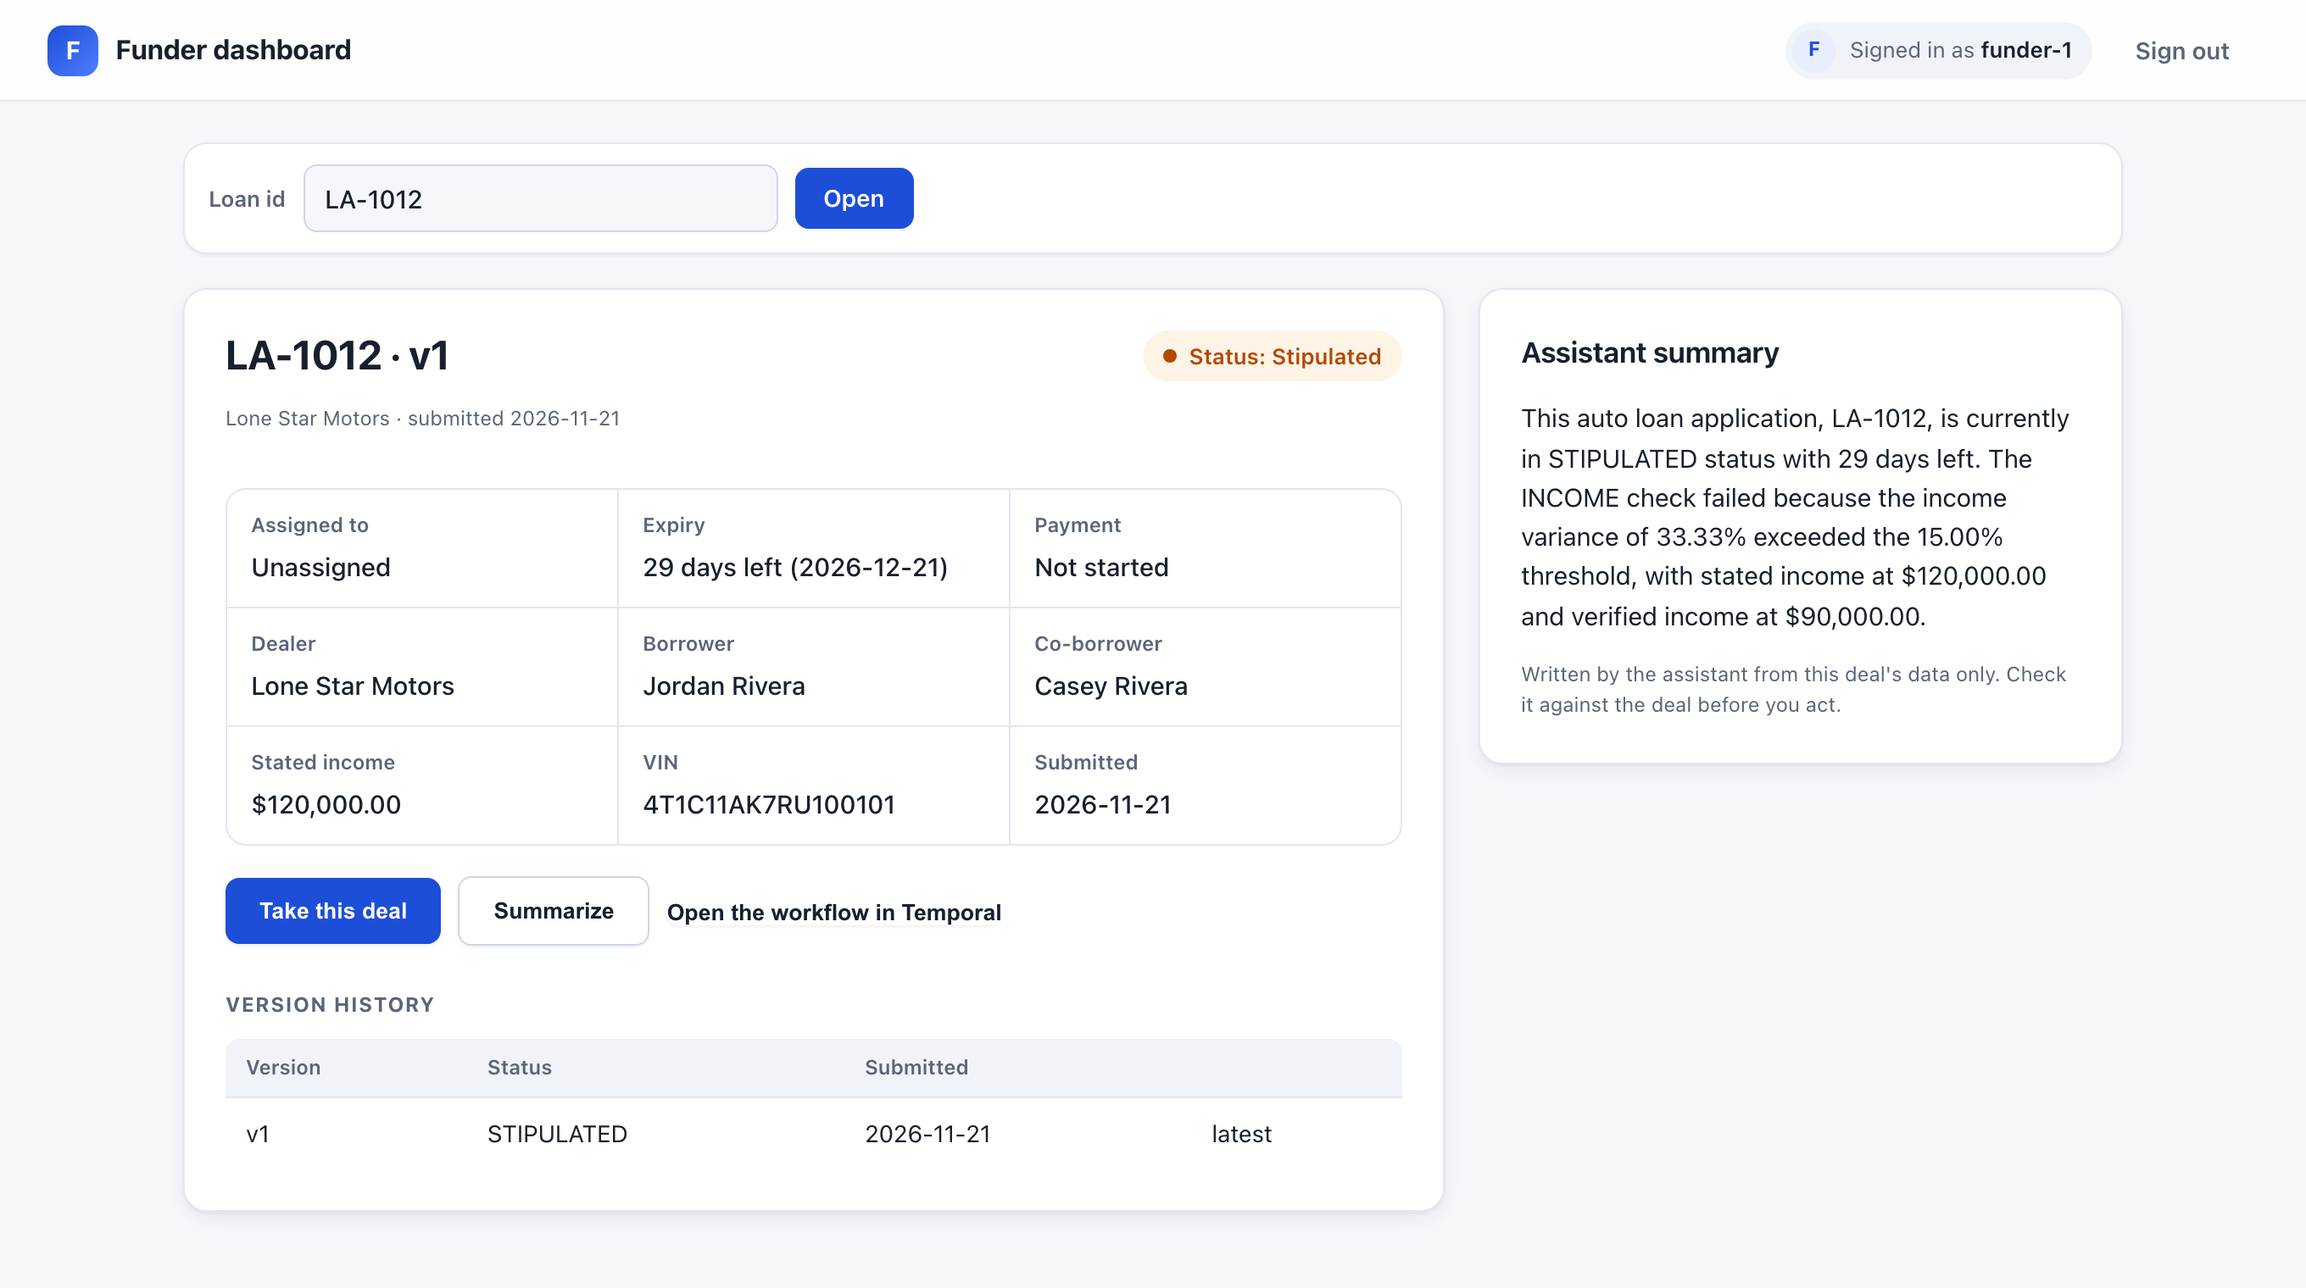
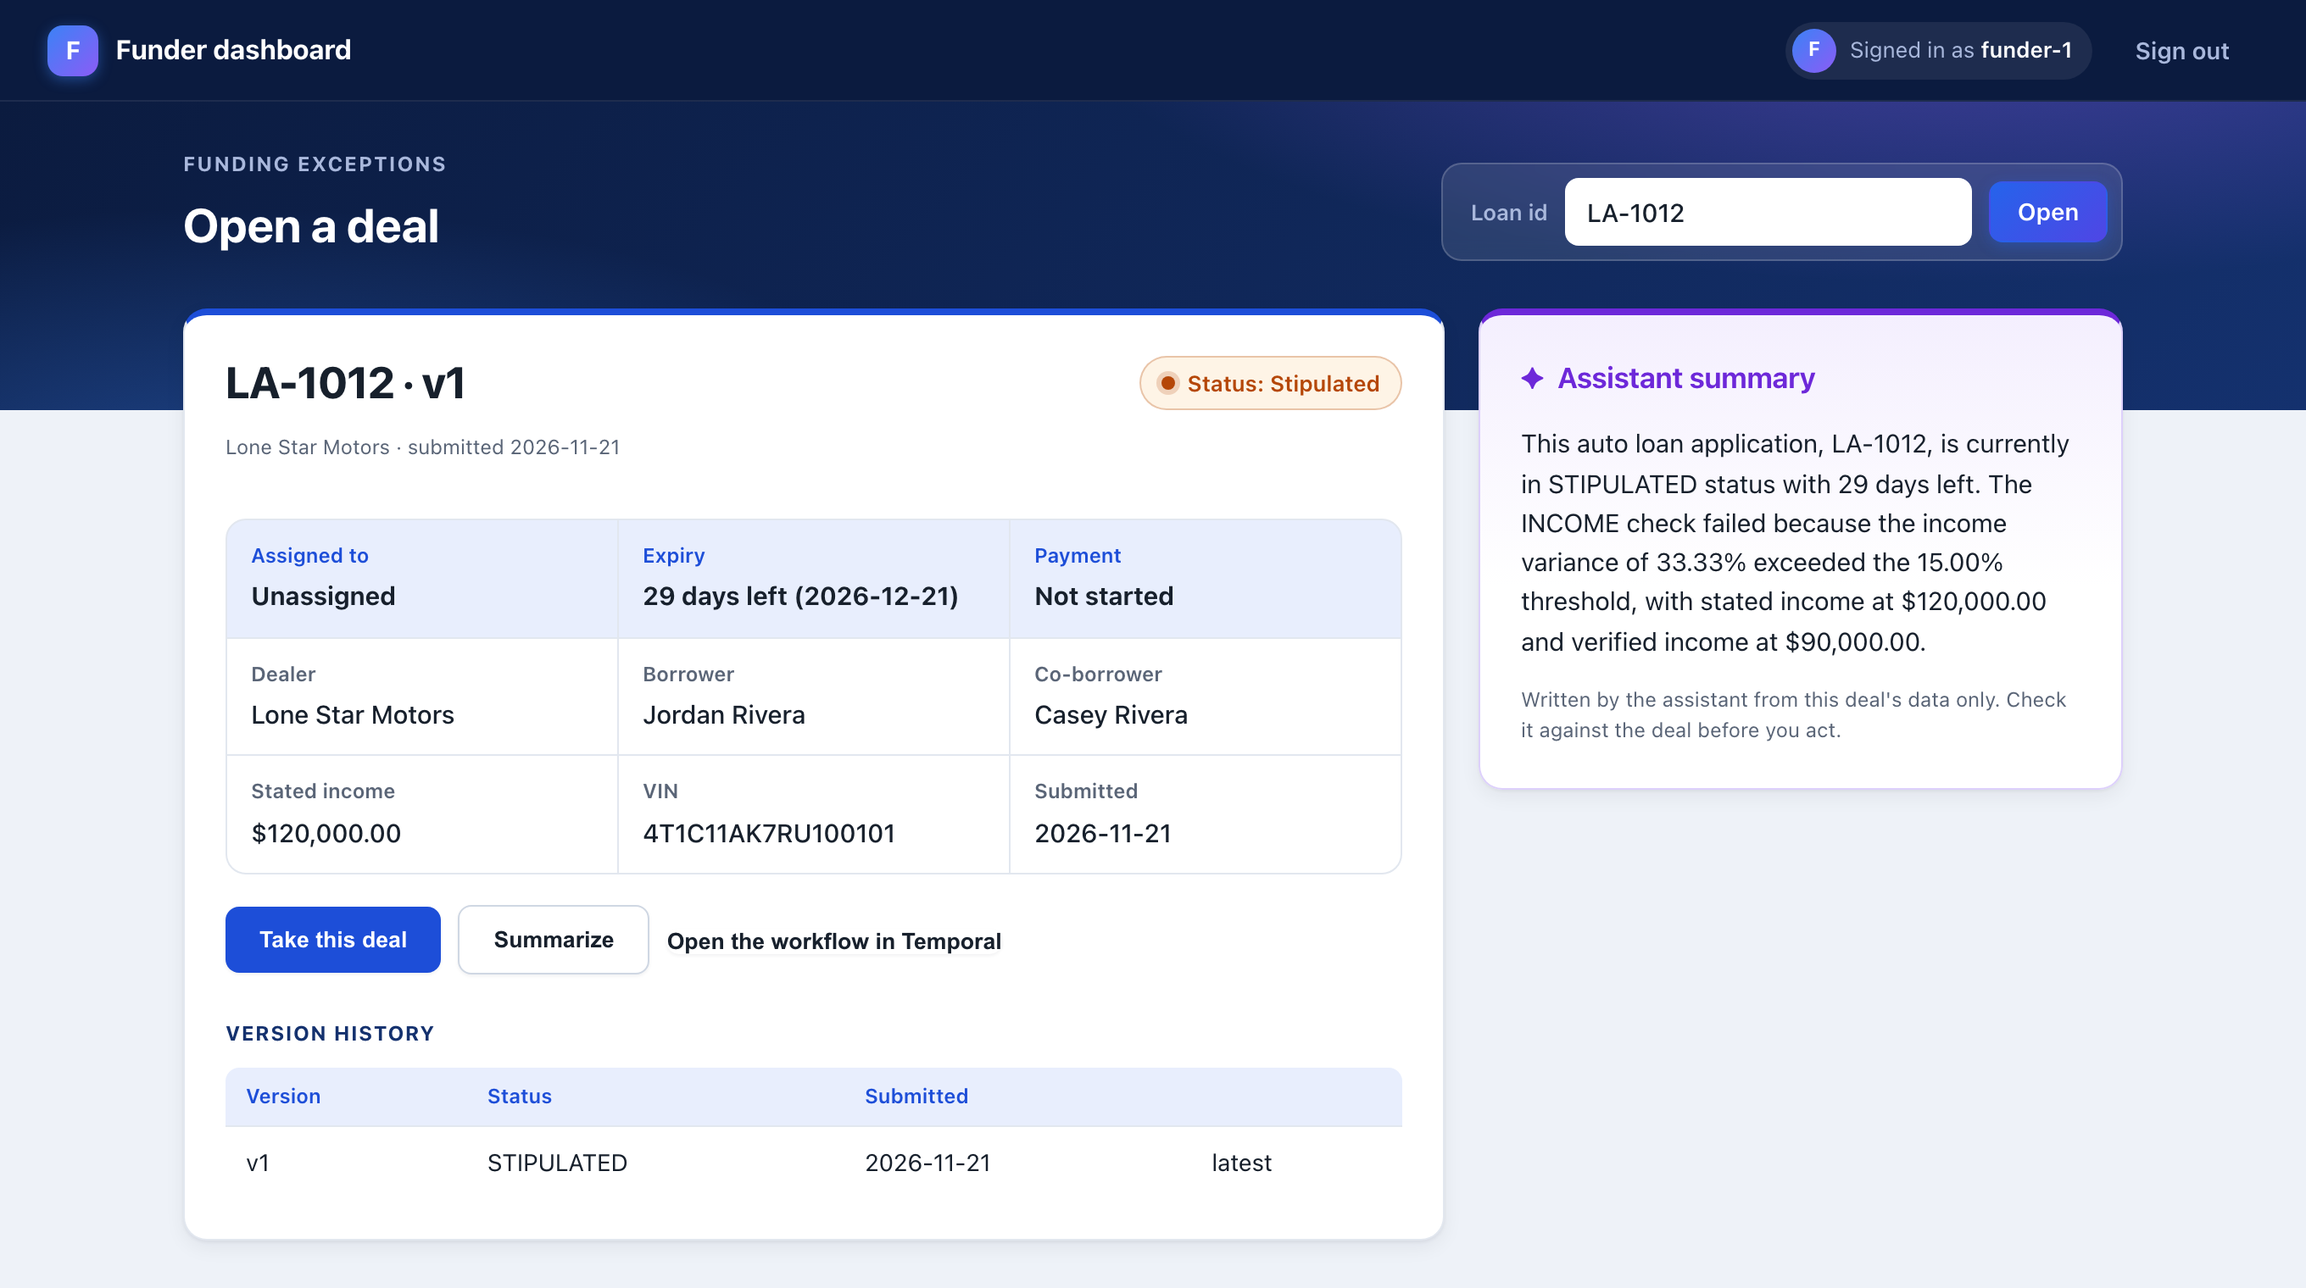
Spec 002 D1c: a richer look (navy hero, accents, an indigo assistant)
At the owner's request ("too light"):
- A navy top bar and a hero band holding the loan search; the cards lift over it.
- A blue edge on the deal card, the first three facts (assignee, expiry, payment) in
  tinted tiles, a tinted table header, gradient primary buttons, ringed status dots.
- The assistant's panel in its own indigo colour with a ✦, so what the AI wrote stands out.
- The sign-in page on the navy gradient. Dark mode: section titles get their own colour.
- D-18 and ui_summary describe it; the screenshot is refreshed. 13 Playwright pass.

diff --git a/dashboard/web/src/index.css b/dashboard/web/src/index.css
@@ -4,9 +4,17 @@
 
 :root {
   /* tokens: light */
-  --bg: #f5f7fb;
+  --bg: #eef2f8;
   --surface: #ffffff;
   --surface-2: #f0f3f8;
+  --navy: #0b1b3f;
+  --navy-2: #14316e;
+  --on-navy: #ffffff;
+  --on-navy-muted: #a9b8dc;
+  --ink-strong: #14316e;   /* section titles */
+  --ai: #6d28d9;
+  --ai-soft: #f4effe;
+  --ai-border: #ddd0fb;
   --border: #e2e7ef;
   --border-strong: #cfd7e3;
   --text: #17202c;
@@ -84,8 +92,14 @@
 
 @media (prefers-color-scheme: dark) {
   :root {
-    --bg: #0d1117;
+    --bg: #0b0f17;
     --surface: #151b24;
+    --navy: #0a1330;
+    --navy-2: #142a63;
+    --ai: #a78bfa;
+    --ai-soft: rgba(167, 139, 250, 0.10);
+    --ai-border: rgba(167, 139, 250, 0.30);
+    --ink-strong: #b4c3ff;
     --surface-2: #1b2330;
     --border: #273142;
     --border-strong: #34405a;
@@ -121,8 +135,8 @@ p { margin: 0; }
 }
 .btn:hover { background: var(--surface-2); }
 .btn:focus-visible, input:focus-visible { outline: 3px solid var(--accent-soft); outline-offset: 1px; border-color: var(--accent); }
-.btn-primary { background: var(--accent); border-color: var(--accent); color: #fff; }
-.btn-primary:hover { background: var(--accent-hover); border-color: var(--accent-hover); }
+.btn-primary { background: linear-gradient(135deg, #2563eb, #4f46e5); border-color: transparent; color: #fff; box-shadow: 0 2px 8px rgba(37, 99, 235, 0.35); }
+.btn-primary:hover { background: linear-gradient(135deg, #1d4ed8, #4338ca); }
 .btn-ghost { background: transparent; box-shadow: none; border-color: transparent; color: var(--text-muted); }
 .btn-ghost:hover { background: var(--surface-2); color: var(--text); }
 .btn-block { width: 100%; padding: 12px 16px; }
@@ -132,51 +146,77 @@ p { margin: 0; }
 .topbar {
   position: sticky; top: 0; z-index: 10; height: 60px; padding: 0 28px;
   display: flex; align-items: center; justify-content: space-between;
-  background: color-mix(in srgb, var(--surface) 88%, transparent); backdrop-filter: blur(8px);
-  border-bottom: 1px solid var(--border);
+  background: var(--navy); color: var(--on-navy);
+  border-bottom: 1px solid rgba(255, 255, 255, 0.08);
 }
+.topbar .brand { color: var(--on-navy); }
+.topbar .btn-ghost { color: var(--on-navy-muted); }
+.topbar .btn-ghost:hover { background: rgba(255, 255, 255, 0.08); color: var(--on-navy); }
 .brand { display: inline-flex; align-items: center; gap: 10px; font-weight: 700; color: var(--text); }
 .brand-mark {
   width: 30px; height: 30px; border-radius: 9px; display: grid; place-items: center;
-  background: linear-gradient(135deg, var(--accent), #4f7cff); color: #fff; font-size: 15px;
+  background: linear-gradient(135deg, #3b82f6, #8b5cf6); color: #fff; font-size: 15px;
+  box-shadow: 0 2px 8px rgba(59, 130, 246, 0.45);
 }
 .brand-name { font-size: 16px; letter-spacing: -0.01em; }
 .topbar-user { display: flex; align-items: center; gap: 8px; }
 .user-chip {
   display: inline-flex; align-items: center; gap: 8px; padding: 4px 12px 4px 4px; border-radius: 999px;
-  background: var(--surface-2); color: var(--text-muted); font-size: 13px;
+  background: rgba(255, 255, 255, 0.08); color: var(--on-navy-muted); font-size: 13px;
 }
-.user-chip [data-testid='user'] { color: var(--text); font-weight: 600; }
+.user-chip [data-testid='user'] { color: var(--on-navy); font-weight: 600; }
 .avatar {
   width: 26px; height: 26px; border-radius: 50%; display: grid; place-items: center;
-  background: var(--accent-soft); color: var(--accent); font-weight: 700; font-size: 12px;
+  background: linear-gradient(135deg, #3b82f6, #8b5cf6); color: #fff; font-weight: 700; font-size: 12px;
 }
-.page { max-width: 1200px; margin: 0 auto; padding: 24px 28px 48px; }
+.hero {
+  background:
+    radial-gradient(900px 300px at 85% -40%, rgba(139, 92, 246, 0.45), transparent 60%),
+    radial-gradient(700px 260px at 10% 120%, rgba(59, 130, 246, 0.35), transparent 60%),
+    linear-gradient(135deg, var(--navy) 0%, var(--navy-2) 100%);
+  color: var(--on-navy); padding: 28px 28px 88px;
+}
+.hero-inner { max-width: 1144px;   /* the page's content width (1200 - 2 × 28) */
+   margin: 0 auto; display: flex; align-items: flex-end; justify-content: space-between; gap: 20px; flex-wrap: wrap; }
+.hero-kicker { font-size: 12px; font-weight: 700; letter-spacing: 0.08em; text-transform: uppercase; color: var(--on-navy-muted); }
+.hero-title { color: var(--on-navy); font-size: 28px; font-weight: 700; margin-top: 4px; }
+.page { max-width: 1200px; margin: -60px auto 0; padding: 0 28px 48px; position: relative; }
 .open-deal {
-  display: flex; align-items: center; gap: 10px; margin-bottom: 20px; padding: 12px 14px;
-  background: var(--surface); border: 1px solid var(--border); border-radius: var(--radius); box-shadow: var(--shadow-sm);
+  display: flex; align-items: center; gap: 10px; padding: 8px 8px 8px 16px;
+  background: rgba(255, 255, 255, 0.10); border: 1px solid rgba(255, 255, 255, 0.18);
+  border-radius: 12px; backdrop-filter: blur(6px);
 }
-.open-deal label { font-size: 13px; font-weight: 600; color: var(--text-muted); }
+.open-deal label { font-size: 13px; font-weight: 600; color: var(--on-navy-muted); }
 .open-deal input {
-  flex: 0 1 280px; font: 500 15px/1 var(--sans); padding: 10px 12px; color: var(--text);
-  background: var(--bg); border: 1px solid var(--border-strong); border-radius: var(--radius-s);
+  width: 240px; font: 500 15px/1 var(--sans); padding: 10px 12px; color: #17202c;
+  background: #ffffff; border: 1px solid transparent; border-radius: var(--radius-s);
 }
 .alert {
   margin-bottom: 16px; padding: 12px 14px; border-radius: var(--radius-s);
   background: var(--danger-soft); color: var(--danger); font-weight: 500;
 }
 .empty-state {
-  padding: 48px 24px; text-align: center; border: 1.5px dashed var(--border-strong); border-radius: var(--radius);
+  padding: 48px 24px; text-align: center; background: var(--surface); border-radius: var(--radius); box-shadow: var(--shadow);
   display: grid; gap: 6px; justify-items: center;
 }
 .empty-state h2 { font-size: 18px; }
 .workspace { display: grid; gap: 20px; align-items: start; }
 .workspace.has-side { grid-template-columns: minmax(0, 1fr) 380px; }
 .workspace-side { position: sticky; top: 84px; }
+
+/* cards: a colour edge says what they are; the assistant has its own colour (AI) */
+.workspace-main div.a2ui-card { border-top: 4px solid var(--accent); }
+.workspace-side div.a2ui-card {
+  background: linear-gradient(180deg, var(--ai-soft), var(--surface) 160px);
+  border: 1px solid var(--ai-border); border-top: 4px solid var(--ai);
+}
+.workspace-side .heading-2 { color: var(--ai); }
+.workspace-side .heading-2::before { content: '✦'; margin-right: 8px; }
 @media (max-width: 980px) {
   .workspace.has-side { grid-template-columns: minmax(0, 1fr); }
   .workspace-side { position: static; }
-  .topbar, .page { padding-left: 16px; padding-right: 16px; }
+  .topbar, .page, .hero { padding-left: 16px; padding-right: 16px; }
+  .open-deal input { width: 100%; }
 }
 .debug { margin-top: 28px; color: var(--text-muted); font-size: 12px; }
 .debug summary { cursor: pointer; }
@@ -188,7 +228,10 @@ p { margin: 0; }
 /* ---------- sign-in ---------- */
 .sign-in-page {
   min-height: 100vh; display: grid; place-items: center; padding: 24px;
-  background: radial-gradient(1200px 600px at 10% -10%, var(--accent-soft), transparent 60%), var(--bg);
+  background:
+    radial-gradient(900px 500px at 90% -10%, rgba(139, 92, 246, 0.45), transparent 60%),
+    radial-gradient(800px 500px at 0% 110%, rgba(59, 130, 246, 0.40), transparent 60%),
+    linear-gradient(135deg, var(--navy) 0%, var(--navy-2) 100%);
 }
 .sign-in {
   width: 100%; max-width: 420px; padding: 36px 32px; display: grid; gap: 16px;
@@ -198,19 +241,20 @@ p { margin: 0; }
 .fine-print { font-size: 12px; color: var(--text-muted); }
 
 /* ---------- our catalog components ---------- */
-.heading-1 { font-size: 24px; font-weight: 700; line-height: 1.2; }
+.heading-1 { font-size: 26px; font-weight: 750; line-height: 1.2; letter-spacing: -0.02em; }
 .heading-2 { font-size: 17px; font-weight: 650; }
 .heading-3 { font-size: 15px; font-weight: 650; }
 .section-title {
   font-size: 12px; font-weight: 700; letter-spacing: 0.06em; text-transform: uppercase;
-  color: var(--text-muted); margin: 4px 0 10px;
+  color: var(--ink-strong); margin: 4px 0 10px;
 }
 
 .status-badge {
   display: inline-flex; align-items: center; gap: 7px; padding: 5px 12px; border-radius: 999px;
   font-size: 13px; font-weight: 600; white-space: nowrap; text-transform: capitalize;
 }
-.status-dot { width: 8px; height: 8px; border-radius: 50%; background: currentColor; }
+.status-badge { border: 1px solid color-mix(in srgb, currentColor 28%, transparent); }
+.status-dot { width: 8px; height: 8px; border-radius: 50%; background: currentColor; box-shadow: 0 0 0 3px color-mix(in srgb, currentColor 20%, transparent); }
 .status-neutral { color: var(--tone-neutral); background: var(--tone-neutral-bg); }
 .status-busy { color: var(--tone-busy); background: var(--tone-busy-bg); }
 .status-waiting { color: var(--tone-waiting); background: var(--tone-waiting-bg); }
@@ -224,12 +268,15 @@ p { margin: 0; }
 .fact { background: var(--surface); padding: 12px 14px; min-width: 0; }
 .fact dt { font-size: 12px; font-weight: 600; color: var(--text-muted); margin-bottom: 3px; }
 .fact dd { margin: 0; font-size: 15px; font-weight: 500; color: var(--text); overflow-wrap: anywhere; }
+.fact:nth-child(-n+3) { background: var(--accent-soft); }
+.fact:nth-child(-n+3) dt { color: var(--accent); }
+.fact:nth-child(-n+3) dd { font-weight: 650; }
 
 .data-table { margin-top: 8px; }
 .data-table table { width: 100%; border-collapse: collapse; font-size: 14px; }
 .data-table th {
   text-align: left; font-size: 12px; font-weight: 600; color: var(--text-muted);
-  padding: 8px 12px; background: var(--surface-2); border-bottom: 1px solid var(--border);
+  padding: 8px 12px; background: var(--accent-soft); color: var(--accent); border-bottom: 1px solid var(--border);
 }
 .data-table th:first-child { border-top-left-radius: var(--radius-s); }
 .data-table th:last-child { border-top-right-radius: var(--radius-s); }

diff --git a/dashboard/web/src/App.tsx b/dashboard/web/src/App.tsx
@@ -138,16 +138,24 @@ export default function App() {
           <button type="button" className="btn btn-ghost" onClick={() => void signOut().then(() => { setUser(undefined); setVisible([]); })}>Sign out</button>
         </div>
       </header>
+      <section className="hero">
+        <div className="hero-inner">
+          <div className="hero-text">
+            <p className="hero-kicker">Funding exceptions</p>
+            <h1 className="hero-title">Open a deal</h1>
+          </div>
+          <form className="open-deal" onSubmit={open}>
+            <label htmlFor="loan-id">Loan id</label>
+            <input id="loan-id" value={loanId} onChange={(e) => setLoanId(e.target.value)} placeholder="e.g. LA-1006" autoComplete="off" />
+            <button type="submit" className="btn btn-primary">Open</button>
+          </form>
+        </div>
+      </section>
       <main className="page">
-        <form className="open-deal" onSubmit={open}>
-          <label htmlFor="loan-id">Loan id</label>
-          <input id="loan-id" value={loanId} onChange={(e) => setLoanId(e.target.value)} placeholder="e.g. LA-1006" autoComplete="off" />
-          <button type="submit" className="btn btn-primary">Open</button>
-        </form>
         {error && <p role="alert" className="alert">{error}</p>}
         {surfaces.length === 0 && !error && (
           <section className="empty-state">
-            <h2>Open a deal</h2>
+            <h2>No deal open yet</h2>
             <p className="muted">Type a loan id above to see its overview, take it, or ask the assistant to summarize it.</p>
           </section>
         )}

diff --git a/specs/002-funder-dashboard/spec.md b/specs/002-funder-dashboard/spec.md
@@ -272,6 +272,6 @@ the expected result, for reference:
 | D-15 | **Five specialists and a supervisor** (owner, 2026-11-21), replacing D-10 and D-11. Each deal's kind of work routes it: GAP, income, RISC (TILA and RISC fields), documents (price and VIN) or payment, each to its own specialist. A deal with two or more kinds goes to the income specialist. The supervisor can do everything. "Send to the income queue" is gone, because routing is automatic. Enforced by the funder API (US-11), built in D2. |
 | D-16 | **Assignment suggestions** (US-12, owner, 2026-11-21): code decides who may work a deal, the LLM ranks and explains within that, and the supervisor confirms each suggestion. An ADK agent with read-only tools. Built after D2, as slice D2b. |
 | D-17 | **A catch-all funder** (`general-1`, role `GENERAL_FUNDER`; owner, 2026-11-21) works only what no specialist owns: the `GENERAL` kind (a manual stip with no check, or a stip code or hold the kinds table doesn't map). It counts toward "two or more kinds" like any other kind. |
-| D-18 | **The look: clean fintech, light** (owner, 2026-11-21): white and soft grey surfaces, one deep-blue accent, status colours that always come with words (NFR-04), generous spacing; dark mode follows the OS. Styled in the web app only (A2UI v1.0 has no themes); the agent sends structure. Built as slice D1c, before D2. |
+| D-18 | **The look: clean fintech, light** (owner, 2026-11-21; made richer the same day): a navy top bar and hero band holding the loan search, white cards lifted over it with a blue edge, key facts in tinted tiles, the assistant in its own indigo colour with a ✦, status colours that always come with words (NFR-04); dark mode follows the OS. Styled in the web app only (A2UI v1.0 has no themes); the agent sends structure. Built as slice D1c, before D2. |
 
 **Open (owner):** none.

diff --git a/learnings/ui_summary.md b/learnings/ui_summary.md
@@ -12,7 +12,9 @@ Summarize** (T151–T157) and **D1c, look and feel** (T161–T164) are done.
 
 ![The funder dashboard: a deal's overview with its facts, actions and version history, and the assistant's summary beside it](screenshots/Funder%20dashboard.png)
 
-**The look (D1c, D-18):** clean fintech, light, with dark mode following the OS. A2UI v1.0 has no
+**The look (D1c, D-18):** clean fintech, light, with dark mode following the OS: a navy top bar and
+hero band with the loan search, white cards lifted over it, key facts (assignee, expiry, payment) in
+tinted tiles, and the assistant in its own indigo colour, so what the AI wrote is easy to spot. A2UI v1.0 has no
 themes, so the look lives in the web app (`web/src/index.css`): design tokens, the renderer's
 `--a2ui-*` variables set from them, and our components' styles. The agent sends only structure.
 The overview has a header (loan id, dealer, status badge), the facts as a label/value grid, an

diff --git a/specs/002-funder-dashboard/tasks.md b/specs/002-funder-dashboard/tasks.md
@@ -319,6 +319,11 @@ lives in the web app, and the overview's layout is still built by agent code.
     The no-buttons check on the assistant's panel stays strict: only Card, Column, Heading and Text.
   - Screenshot: `learnings/screenshots/Funder dashboard.png`, also shown in the README and
     `ui_summary.md`.
+  - **Made richer** at the owner's request ("too light"): a navy top bar and a hero band holding
+    the loan search, with the cards lifted over it; a blue edge on the deal card; the first three
+    facts in tinted tiles; a tinted table header; gradient primary buttons; and the assistant in
+    its own indigo colour with a ✦. Dark mode checked too: section titles got their own colour
+    there, because navy had no contrast.
 
 ## D2: Roles and permissions (five specialists and a supervisor, D-15)
 
